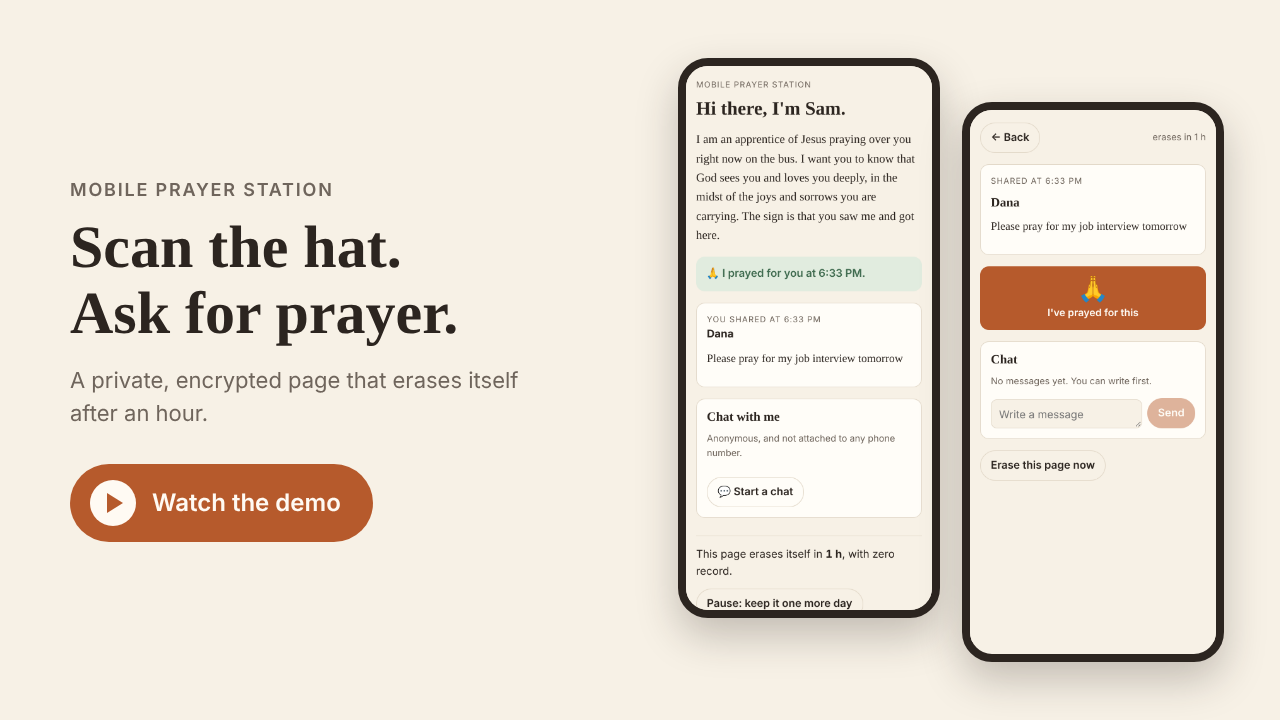
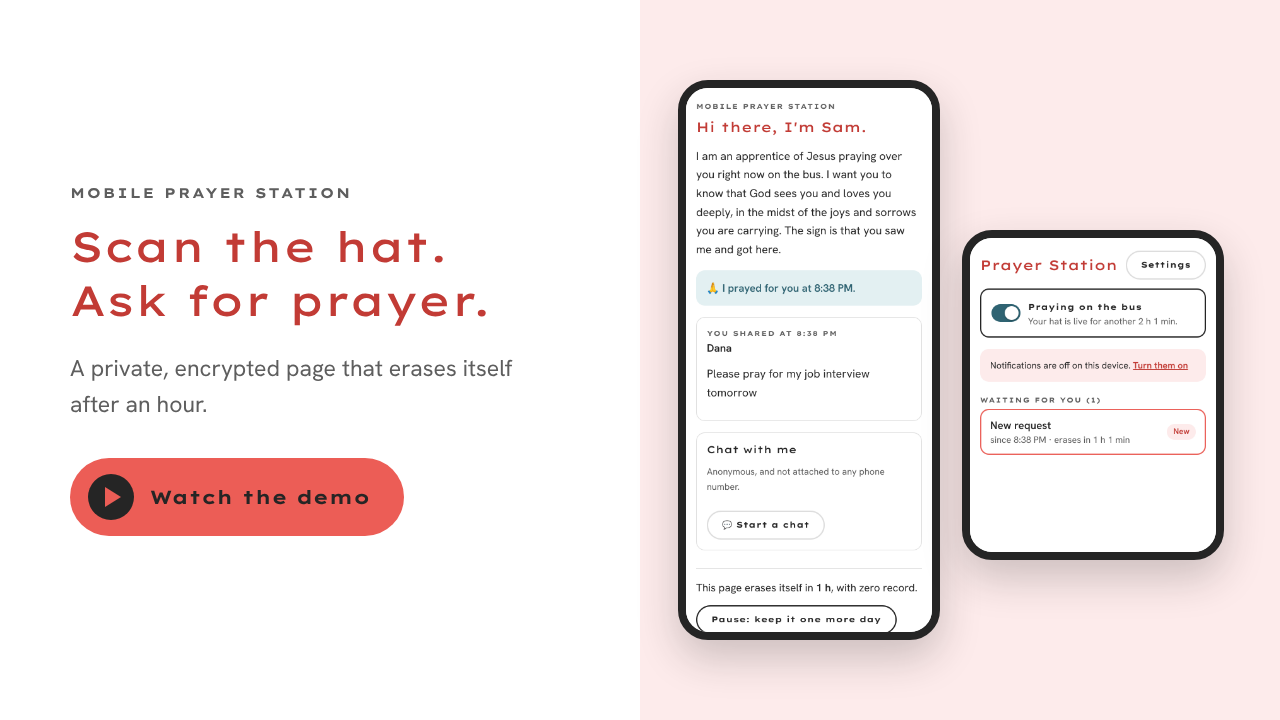
Restyle to follow the 24-7 Prayer look
Colours from their theme: ink #252525, coral #EC5D56, teal #3C7A89,
pale coral #FDEBEB on white, with a #252525 dark mode. Pill buttons
with a wide bold label face, wide headings and a grotesque body face.

Their fonts (Termina, Obviously Wide, Aktiv Grotesk) are licensed Adobe
Fonts, so the app bundles close free matches instead (Lexend Mega,
Lexend Giga, Hanken Grotesk). Fonts are served from this site, with no
requests to third-party font servers.

Text on coral uses dark ink and coral text uses a deeper shade so
contrast stays above 4.5:1. App icon, theme colours and the README
poster updated to match.

Claude-Session: https://claude.ai/code/session_01DfBRztX2c1SxjEHVKTUBrq

diff --git a/src/shared/style.css b/src/shared/style.css
@@ -1,36 +1,44 @@
+@import '@fontsource/lexend-giga/latin-500.css';
+@import '@fontsource/lexend-mega/latin-700.css';
+@import '@fontsource/hanken-grotesk/latin-400.css';
+@import '@fontsource/hanken-grotesk/latin-600.css';
+
 :root {
-  --bg: #f7f1e6;
-  --surface: #fffdf8;
-  --ink: #2c2520;
-  --muted: #6f655c;
-  --line: #e2d8c8;
-  --accent: #b65a2c;
-  --accent-ink: #fffaf3;
-  --accent-soft: #f3e2d3;
-  --good: #3f6b4f;
-  --good-soft: #e1ecdf;
-  --danger: #9c2f2f;
-  --bubble-me: #ecdcc8;
+  --bg: #ffffff;
+  --surface: #ffffff;
+  --ink: #252525;
+  --muted: #5e5e5e;
+  --line: #dddddd;
+  --accent: #ec5d56; /* brand coral: fills and borders */
+  --accent-ink: #252525; /* text on coral (white on coral is only 3.3:1) */
+  --accent-text: #c23b35; /* coral for text on white (5.3:1) */
+  --accent-soft: #fdebeb;
+  --good: #2f6372;
+  --good-soft: #e3f0f2;
+  --danger: #b3261e;
+  --bubble-me: #fdebeb;
   --radius: 14px;
-  --serif: 'Iowan Old Style', 'Palatino Linotype', Palatino, Georgia, serif;
-  --sans: system-ui, -apple-system, 'Segoe UI', Roboto, sans-serif;
+  --display: 'Lexend Giga', 'Avenir Next', 'Segoe UI', system-ui, sans-serif;
+  --label: 'Lexend Mega', 'Avenir Next', 'Segoe UI', system-ui, sans-serif;
+  --sans: 'Hanken Grotesk', system-ui, -apple-system, 'Segoe UI', Roboto, sans-serif;
   color-scheme: light dark;
 }
 
 @media (prefers-color-scheme: dark) {
   :root {
-    --bg: #16130f;
-    --surface: #201c17;
-    --ink: #efe7db;
-    --muted: #a59a8c;
-    --line: #3a332b;
-    --accent: #e08a55;
-    --accent-ink: #1b140e;
-    --accent-soft: #3a281c;
-    --good: #8fc29f;
-    --good-soft: #223026;
-    --danger: #e88a8a;
-    --bubble-me: #3a3026;
+    --bg: #252525;
+    --surface: #2e2e2e;
+    --ink: #f4f4f4;
+    --muted: #b4b4b4;
+    --line: #484848;
+    --accent: #ec5d56;
+    --accent-ink: #252525;
+    --accent-text: #ff8a84;
+    --accent-soft: #3a2a2a;
+    --good: #94dee5;
+    --good-soft: #1f3a40;
+    --danger: #ff8a84;
+    --bubble-me: #3c2f2f;
   }
 }
 
@@ -46,7 +54,7 @@ body {
   margin: 0;
   background: var(--bg);
   color: var(--ink);
-  font: 17px/1.55 var(--sans);
+  font: 17px/1.65 var(--sans);
 }
 
 #app {
@@ -57,19 +65,21 @@ body {
 
 h1,
 h2 {
-  font-family: var(--serif);
-  font-weight: 600;
-  line-height: 1.2;
+  font-family: var(--display);
+  font-weight: 500;
+  line-height: 1.3;
+  letter-spacing: 0.2px;
   text-wrap: balance;
   margin: 0;
 }
 
 h1 {
-  font-size: 30px;
+  font-size: 22px;
+  color: var(--accent-text);
 }
 
 h2 {
-  font-size: 20px;
+  font-size: 16px;
 }
 
 p {
@@ -77,17 +87,18 @@ p {
 }
 
 .eyebrow {
-  font-size: 13px;
-  letter-spacing: 0.08em;
+  font-family: var(--label);
+  font-weight: 700;
+  font-size: 11px;
+  letter-spacing: 0.12em;
   text-transform: uppercase;
   color: var(--muted);
   margin-bottom: 10px;
 }
 
 .lead {
-  font-family: var(--serif);
-  font-size: 19px;
-  line-height: 1.6;
+  font-size: 18px;
+  line-height: 1.65;
 }
 
 .muted {
@@ -158,15 +169,23 @@ a:focus-visible {
 }
 
 button {
-  font: inherit;
-  font-weight: 600;
+  font-family: var(--label);
+  font-size: 13px;
+  font-weight: 700;
+  letter-spacing: 0.3px;
+  line-height: 1.2;
   color: var(--ink);
   background: transparent;
-  border: 1px solid var(--line);
-  border-radius: 999px;
-  padding: 10px 16px;
-  min-height: 44px;
+  border: 2px solid var(--line);
+  border-radius: 34px;
+  padding: 12px 22px;
+  min-height: 46px;
   cursor: pointer;
+  transition: background-color 0.2s, border-color 0.2s, color 0.2s;
+}
+
+button:hover:not(:disabled) {
+  border-color: var(--ink);
 }
 
 button:disabled {
@@ -180,15 +199,25 @@ button.primary {
   color: var(--accent-ink);
 }
 
+button.primary:hover:not(:disabled) {
+  background: var(--ink);
+  border-color: var(--ink);
+  color: var(--bg);
+}
+
 button.danger {
   color: var(--danger);
 }
 
 button.link {
+  font-family: var(--sans);
+  font-size: inherit;
+  font-weight: 600;
+  letter-spacing: 0;
   border: 0;
   padding: 0;
   min-height: 0;
-  color: var(--accent);
+  color: var(--accent-text);
   text-decoration: underline;
   border-radius: 4px;
 }
@@ -205,7 +234,7 @@ button.block {
   width: 100%;
   border-radius: var(--radius);
   padding: 14px;
-  font-size: 16px;
+  font-size: 13px;
 }
 
 .hands .emoji {
@@ -234,7 +263,6 @@ button.block {
 .shared {
   white-space: pre-wrap;
   overflow-wrap: anywhere;
-  font-family: var(--serif);
   font-size: 18px;
 }
 
@@ -299,6 +327,21 @@ button.block {
   margin-bottom: 14px;
 }
 
+.switch,
+.item {
+  font-family: var(--sans);
+  font-size: 17px;
+  font-weight: 400;
+  letter-spacing: 0;
+  line-height: 1.45;
+}
+
+.switch strong {
+  font-family: var(--label);
+  font-size: 13px;
+  letter-spacing: 0.3px;
+}
+
 .switch {
   display: flex;
   align-items: center;
@@ -342,8 +385,8 @@ button.block {
 }
 
 .section-title {
-  font: 600 13px/1 var(--sans);
-  letter-spacing: 0.08em;
+  font: 700 11px/1 var(--label);
+  letter-spacing: 0.12em;
   text-transform: uppercase;
   color: var(--muted);
   margin: 24px 0 8px;
@@ -376,6 +419,7 @@ button.block {
 
 .item .what {
   font-weight: 600;
+  font-size: 17px;
 }
 
 .item .when {
@@ -396,7 +440,7 @@ button.block {
   border-radius: 999px;
   padding: 3px 10px;
   background: var(--accent-soft);
-  color: var(--accent);
+  color: var(--accent-text);
   white-space: nowrap;
 }
 

diff --git a/dash.html b/dash.html
@@ -5,8 +5,8 @@
     <meta name="viewport" content="width=device-width, initial-scale=1, viewport-fit=cover" />
     <meta name="robots" content="noindex, nofollow" />
     <meta name="referrer" content="no-referrer" />
-    <meta name="theme-color" content="#f7f1e6" media="(prefers-color-scheme: light)" />
-    <meta name="theme-color" content="#16130f" media="(prefers-color-scheme: dark)" />
+    <meta name="theme-color" content="#ffffff" media="(prefers-color-scheme: light)" />
+    <meta name="theme-color" content="#252525" media="(prefers-color-scheme: dark)" />
     <meta name="apple-mobile-web-app-capable" content="yes" />
     <meta name="apple-mobile-web-app-title" content="Prayer Station" />
     <link rel="manifest" href="/manifest.webmanifest" />

diff --git a/index.html b/index.html
@@ -5,8 +5,8 @@
     <meta name="viewport" content="width=device-width, initial-scale=1, viewport-fit=cover" />
     <meta name="robots" content="noindex, nofollow" />
     <meta name="referrer" content="no-referrer" />
-    <meta name="theme-color" content="#f7f1e6" media="(prefers-color-scheme: light)" />
-    <meta name="theme-color" content="#16130f" media="(prefers-color-scheme: dark)" />
+    <meta name="theme-color" content="#ffffff" media="(prefers-color-scheme: light)" />
+    <meta name="theme-color" content="#252525" media="(prefers-color-scheme: dark)" />
     <link rel="icon" href="/icon.svg" type="image/svg+xml" />
     <title>Mobile Prayer Station</title>
   </head>
